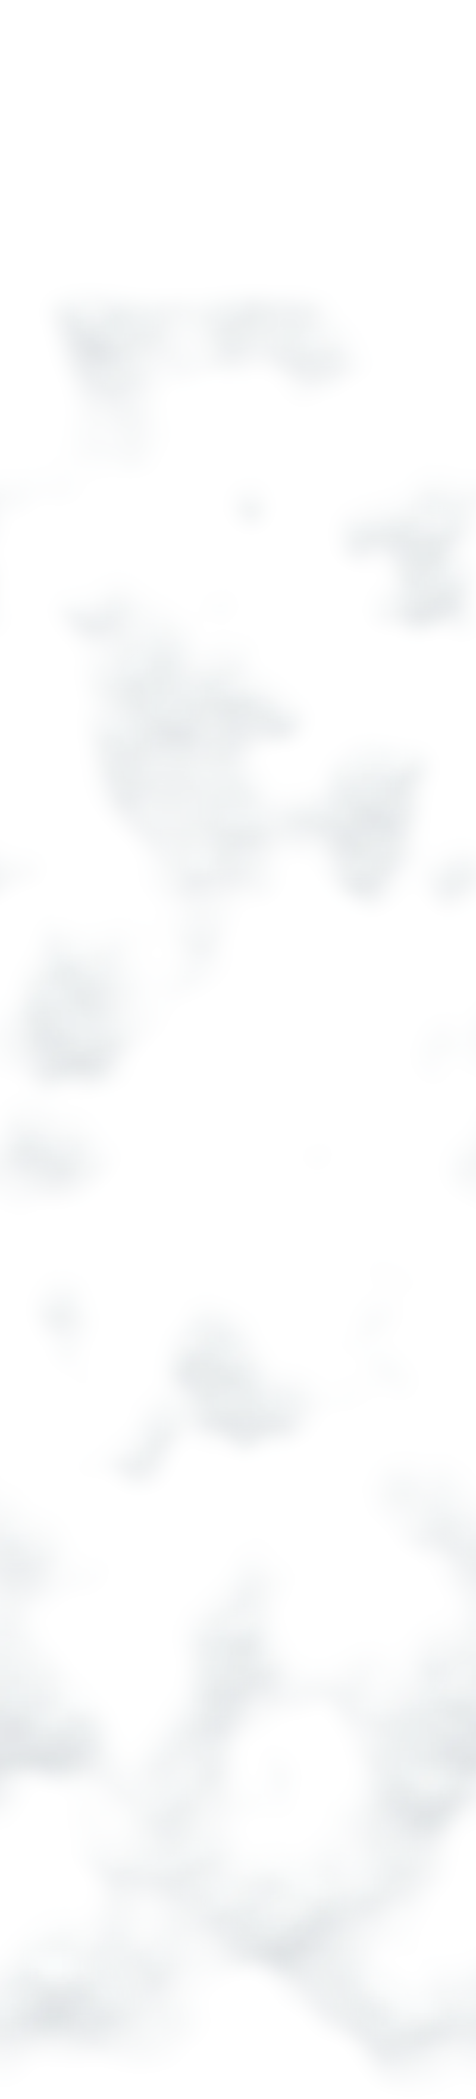
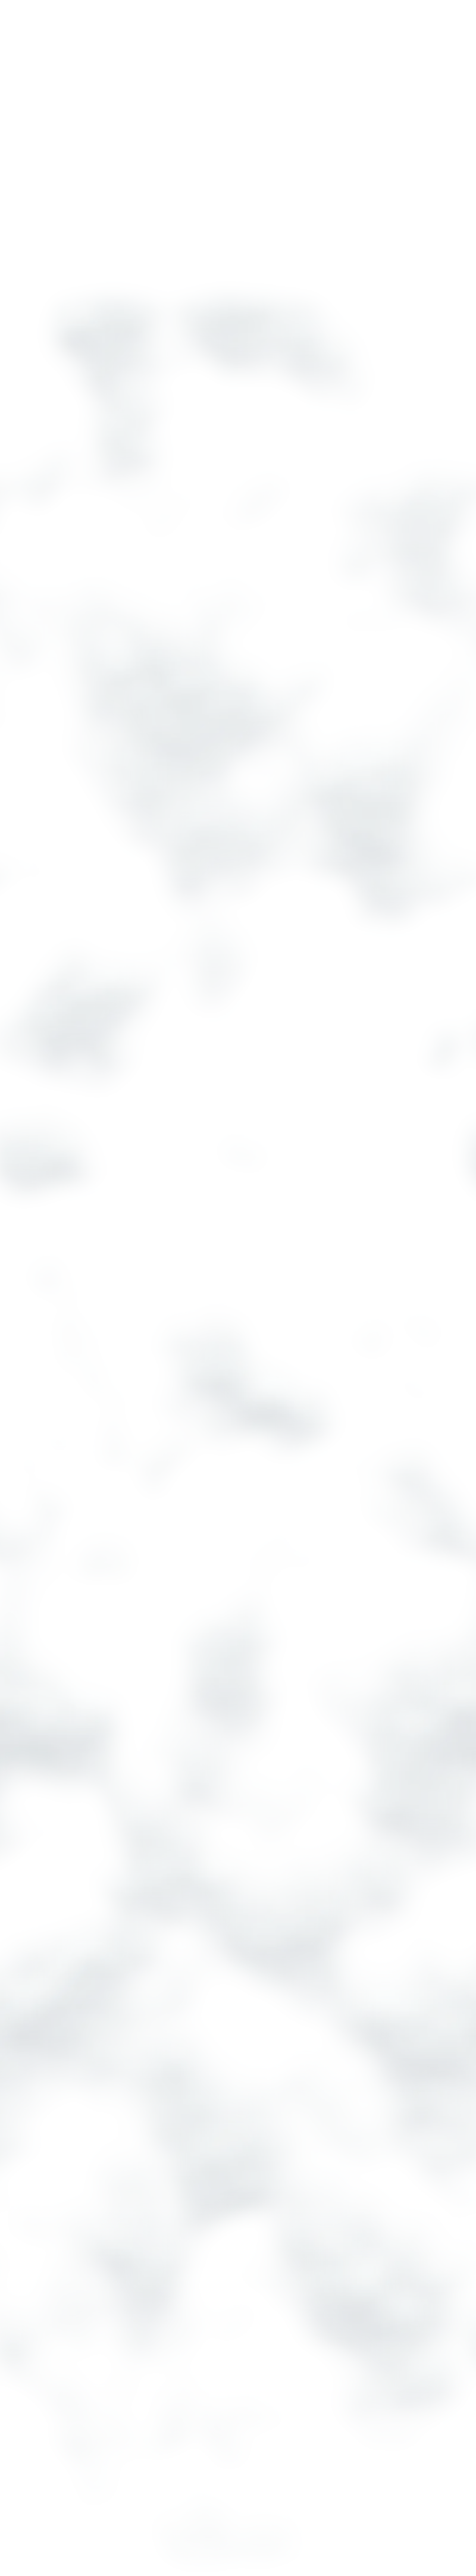
More cloud space under the Variety quote
The cloud passage is longer (500 screen-hundredths, was 440), so the
Variety quote holds in the middle for about 1.1 screens before the clouds
reach it. The wisps' strip is longer (13 screens) with its group moved to
pass over Variety for its whole time.

diff --git a/public/style.css b/public/style.css
@@ -7,7 +7,7 @@
 html, body { background: var(--page, #939ca2); transition: background-color 0.4s ease; }
 
 :root {
-  --cloud-h: max(213vw, 440vh); /* height of the cloud image (thick from 28% to 84%) */
+  --cloud-h: max(242vw, 500vh); /* height of the cloud image (thick from 28% to 84%) */
 }
 
 /* Loading screen: the page's light sky colour, a small dark blue bar and percentage. Nothing scrolls
@@ -231,7 +231,7 @@ html, body { background: var(--page, #939ca2); transition: background-color 0.4s
   mask-image: linear-gradient(transparent, #000 25vh, #000 calc(100% - 25vh), transparent);
 }
 .clouds-mid div { background-image: url(clouds-mid.webp); background-size: auto 50%; background-repeat: repeat; } /* the strip twice, one under the other */
-.clouds-veil { z-index: 6; --layer-h: 1060vh; --tile-w: 240vh; height: var(--layer-h); } /* one long strip, its wisps placed by tools/cloud_depth.py */
+.clouds-veil { z-index: 6; --layer-h: 1300vh; --tile-w: 240vh; height: var(--layer-h); } /* one long strip, its wisps placed by tools/cloud_depth.py */
 .clouds-veil div { background-image: url(clouds-veil.webp); animation-duration: 20s; }
 @media (prefers-reduced-motion: reduce) {
   .cloud-layer div { animation: none; }

diff --git a/public/main.js b/public/main.js
@@ -153,7 +153,7 @@ function update() {
   // stay until the words go behind the clouds)
   const shades = !!veil && !!veil.dataset.over;
   const shape = shades ? veil.firstElementChild.getBoundingClientRect() : null; // the drifting strip
-  const tileH = 10.6 * vh, tileW = 2.4 * vh; // the strip's size (style.css)
+  const tileH = 13 * vh, tileW = 2.4 * vh; // the strip's size (style.css)
   if (logoShade) logoShade.style.visibility = shades ? "visible" : "hidden";
   if (shades) following = true;
   if (shades && logoShade) {

diff --git a/tools/cloud_depth.py b/tools/cloud_depth.py
@@ -85,19 +85,19 @@ rgb = tex * (0.88 + 0.42 * lit) * np.array([0.95, 0.99, 1.02])
 rgb = rgb * 0.75 + np.array([226, 231, 234], np.float32) * 0.25
 Image.fromarray(np.dstack([rgb, a[..., None] * 225]).clip(0, 255).astype(np.uint8)).save(f"{out}/clouds-mid.png")
 
-# Wisps in front of the texts: one long strip (10.6 screens, 333 px a screen), drifting
+# Wisps in front of the texts: one long strip (13 screens, 333 px a screen), drifting
 # up the page; large (a third of the screen or so), soft, see-through (the words read through them), light on
 # top and greyer underneath; they pass over the texts.
 # Where they are is planned against what passes under them (main.js places the strip):
 # - down to 1.5 screens: none, the sky above and around the logo as the page opens;
-# - 8 to 10.2: a group above the last quote (Variety) and its logo, for their shadows;
+# - 8.6 to 11.8: a group above the last quote (Variety) and its logo, for their shadows;
 # - elsewhere, scattered.
 PER = 333  # px a screen
-h, w = int(10.6 * PER), 800
+h, w = int(13 * PER), 800
 y = np.linspace(0, 1, h)[:, None]
 at = np.arange(h)[:, None] / PER  # screens down the strip
 n = noise(h, w, [(120, 0.7), (44, 0.22), (14, 0.08)])  # large ones
-dense = smooth(7.9, 8.0, at) * (1 - smooth(10.2, 10.3, at))
+dense = smooth(8.5, 8.6, at) * (1 - smooth(11.8, 11.9, at))
 clear = 1 - smooth(1.45, 1.55, at)
 lift = 0.3 * clear - 0.05 * dense  # higher threshold: fewer wisps; lower: more
 # Some wisps soft, almost a gradient, others with a crisper edge.
